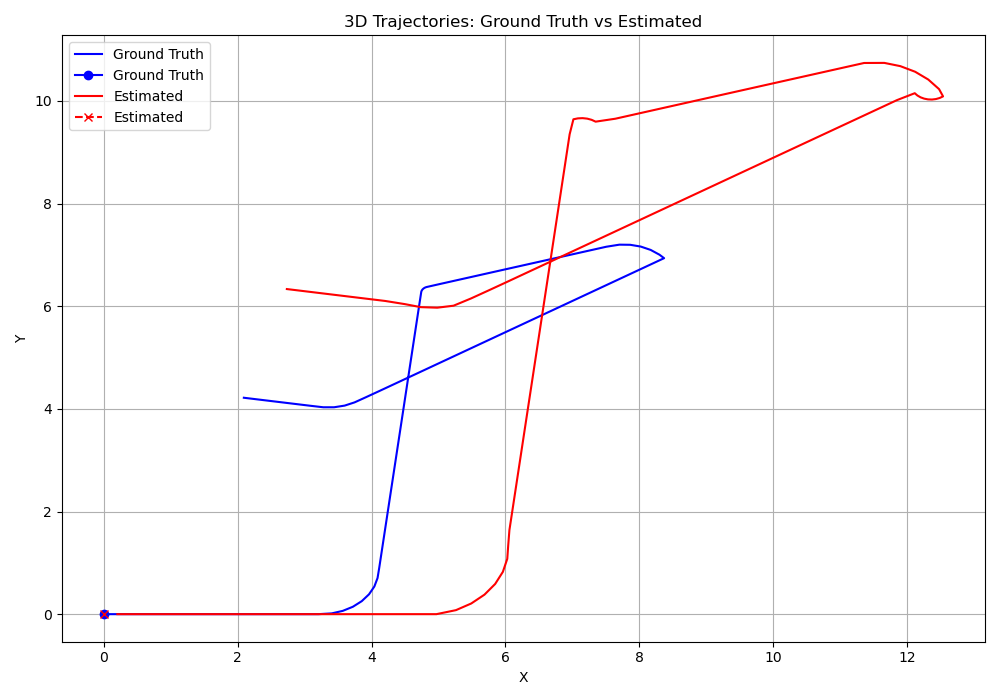
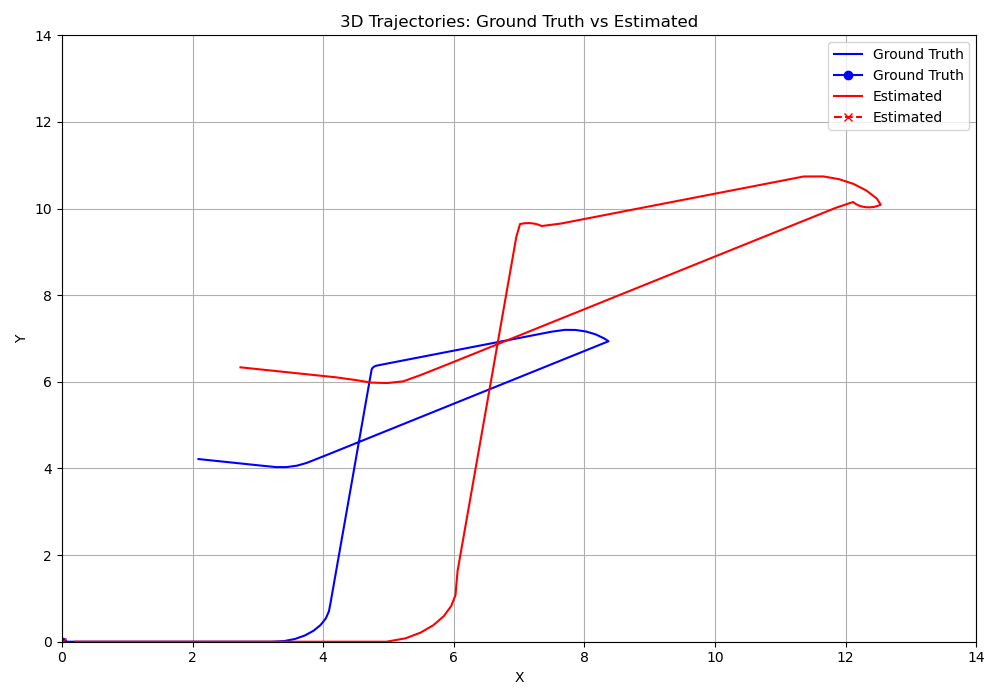
formattign readme

diff --git a/exec/show_trajectory.py b/exec/show_trajectory.py
@@ -41,6 +41,9 @@ def plot_trajectories_3d(gt_file='gt_trajectory.csv', est_file='estimated_trajec
     ax.set_xlabel('X')
     ax.set_ylabel('Y')
     ax.set_zlabel('Z')
+    ax.set_xlim([0, 14])
+    ax.set_ylim([0, 14])
+    ax.set_zlim([-4, 4])
     ax.set_title('3D Trajectories: Ground Truth vs Estimated')
     ax.legend()
     ax.grid(True)
@@ -65,6 +68,8 @@ def plot_trajectories_2d(gt_file='gt_trajectory.csv', est_file='estimated_trajec
     ax.set_xlabel('X')
     ax.set_ylabel('Y')
     #ax.set_zlabel('Z')
+    ax.set_xlim([0, 14])
+    ax.set_ylim([0, 14])
     ax.set_title('3D Trajectories: Ground Truth vs Estimated')
     ax.legend()
     ax.grid(True)
